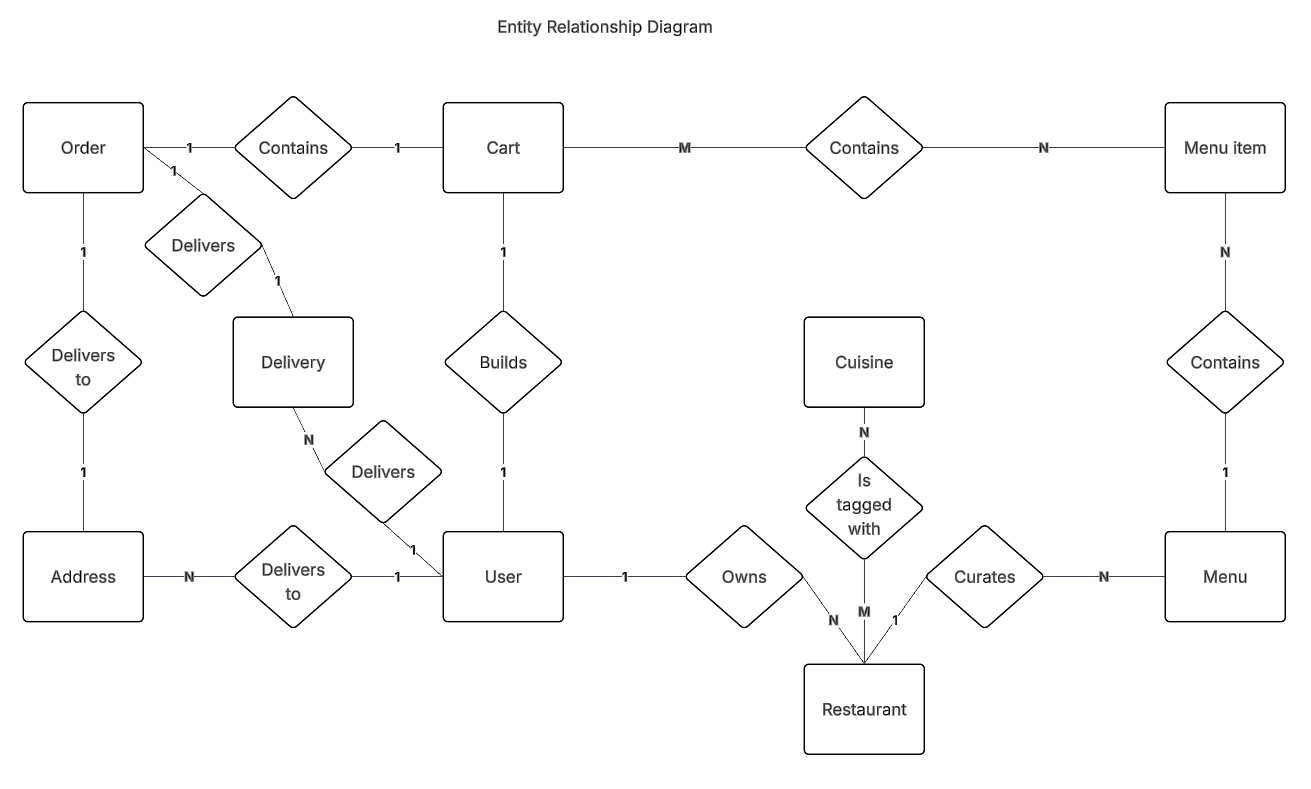
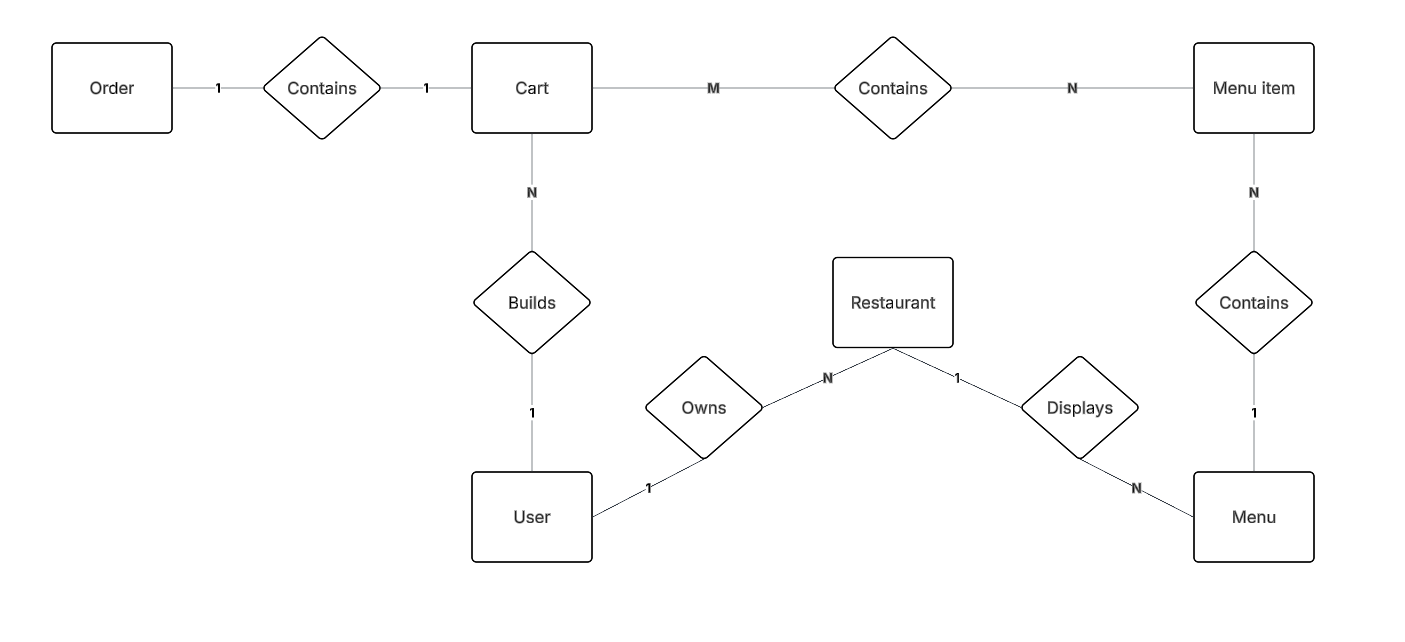
Revert "test/create-test-data"

diff --git a/scrum/design.md b/scrum/design.md
@@ -10,16 +10,6 @@ These diagrams are not exhaustive and 100% correct. They should be used to help 
 
 ![Restaurateur Manages Menu Data Flow Diagram](media/menu-data-flow-diagram.png)
 
-## Data Flow Diagrams
-
-These diagrams are not exhaustive and 100% correct. They should be used to help us during implementation.
-
-![Customer Order Data Flow Diagram](media/order-data-flow-diagram.png)
-
-![Restaurateur Manages Restaurant Data Flow Diagram](media/restaurant-data-flow-diagram.png)
-
-![Restaurateur Manages Menu Data Flow Diagram](media/menu-data-flow-diagram.png)
-
 ## URL Design
 
 - api/                  Return a health status.  
@@ -38,51 +28,43 @@ These diagrams are not exhaustive and 100% correct. They should be used to help 
         - ID/           Return a single dish.
             - update/  
 
-## Data Design
-
-### Entity Relationship Diagram
+## Entity Relationship Diagram
 
 ![Entity Relationship Diagram](media/entity-relationship-diagram.png)
 
-### Documents
+### Attributes
 
-While attempting to design the data structure in a relational fashion, it became apparent that designing a bespoke RDBMS would be difficult for the project. Therefore, this design is document-based. Each document listed below will exist as a json file and each value in the file will have the listed keys.
+Please note only keys are included so far to help with designing the data layout and repository layer.
 
-#### Users
-- email: user contact email address, also acts as login username
-- password_hash: encrypted user password string
-- is_admin: boolean flag indicating administrative rights
-- is_active: boolean flag showing account activity status
-- addresses: nested map of saved delivery locations containing recipient names and address lines
-- cart: nested map of unsubmitted items currently stored in the user's shopping cart
+#### Order
 
-#### Restaurants
-- owner_id: user ID reference indicating the restaurant's owner
-- name: display name of the restaurant
-- description: short overview text describing the establishment
-- address: nested address object containing street, city, region, postcode and country
-- phone_number: contact telephone number for the business
-- is_active: boolean flag representing restaurant operational status
-- cuisine_ids: array of linked cuisine tag IDs
-- menus: nested map of menus containing active state and menu items
+- Order ID (primary key).
+- Cart ID (foreign key).
 
-#### Orders
+#### Cart
 
-- orderer_id: user ID reference to the customer who submitted the order
-- address: embedded delivery destination details, including recipient name
-- placed_at: timestamp string recording when the order was submitted
-- state: current lifecycle status of the order. States: (placed, preparing, waiting_for_driver, collected, delivered, cancelled)
-- items: nested map of purchased items preserving historical name and price snapshots
+- Cart ID (PK).
+- User ID (FK).
 
-Note that an order acts like a snapshot of an order when it was placed. Therefore, it may appear that there is some data redundency, but be assured that this is by design.  
+#### Cart-menu (Composite)
 
-For example, address is recorded again rather than relying on the orderer's address attribute. If the orderer later deleted their address or changed some of it, the record of the order will show erroneous data. It should represent the order at the time of ordering.
+- Cart ID (PK).
+- Menu ID (PK).
 
-#### Deliveries
-- order_id: order ID reference linking the delivery to a specific order
-- deliverer_id: user ID of the assigned delivery driver
-- state: current status tracking the delivery progress. States: (accepted, collected, delivered). Notice no cancelled state because the brief did not mention that deliveries could be cancelled once collected.
-- delivered_at: timestamp string marking the completion time of delivery
+#### Menu Item
 
-#### Cuisines
-- name: text label of the cuisine category used for restaurant filtering
+- Menu item ID (PK).
+- Menu ID (FK).
+
+#### Menu
+
+- Menu ID (PK).
+
+#### Restaurant
+
+- Restaurant ID (PK).
+- User ID (FK).
+
+#### User
+
+- User ID (PK).
